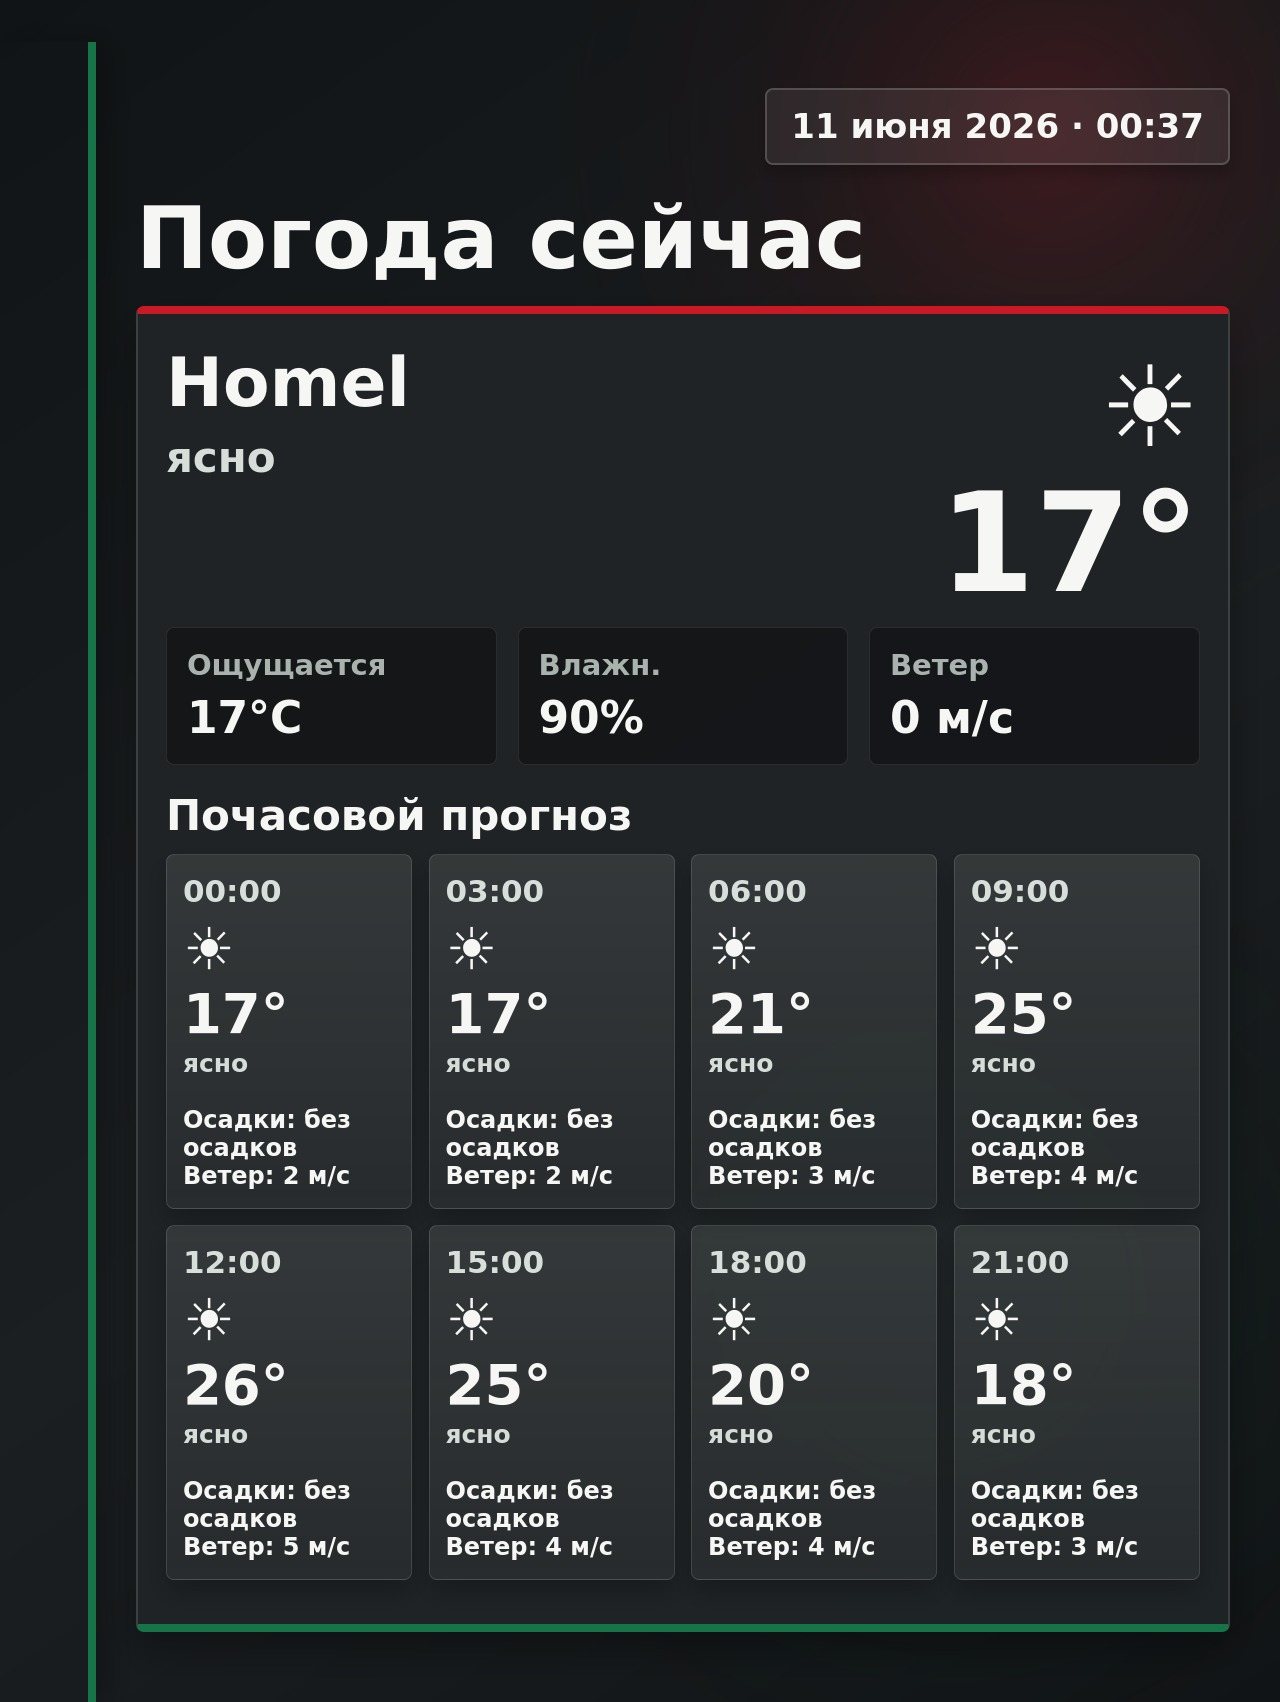
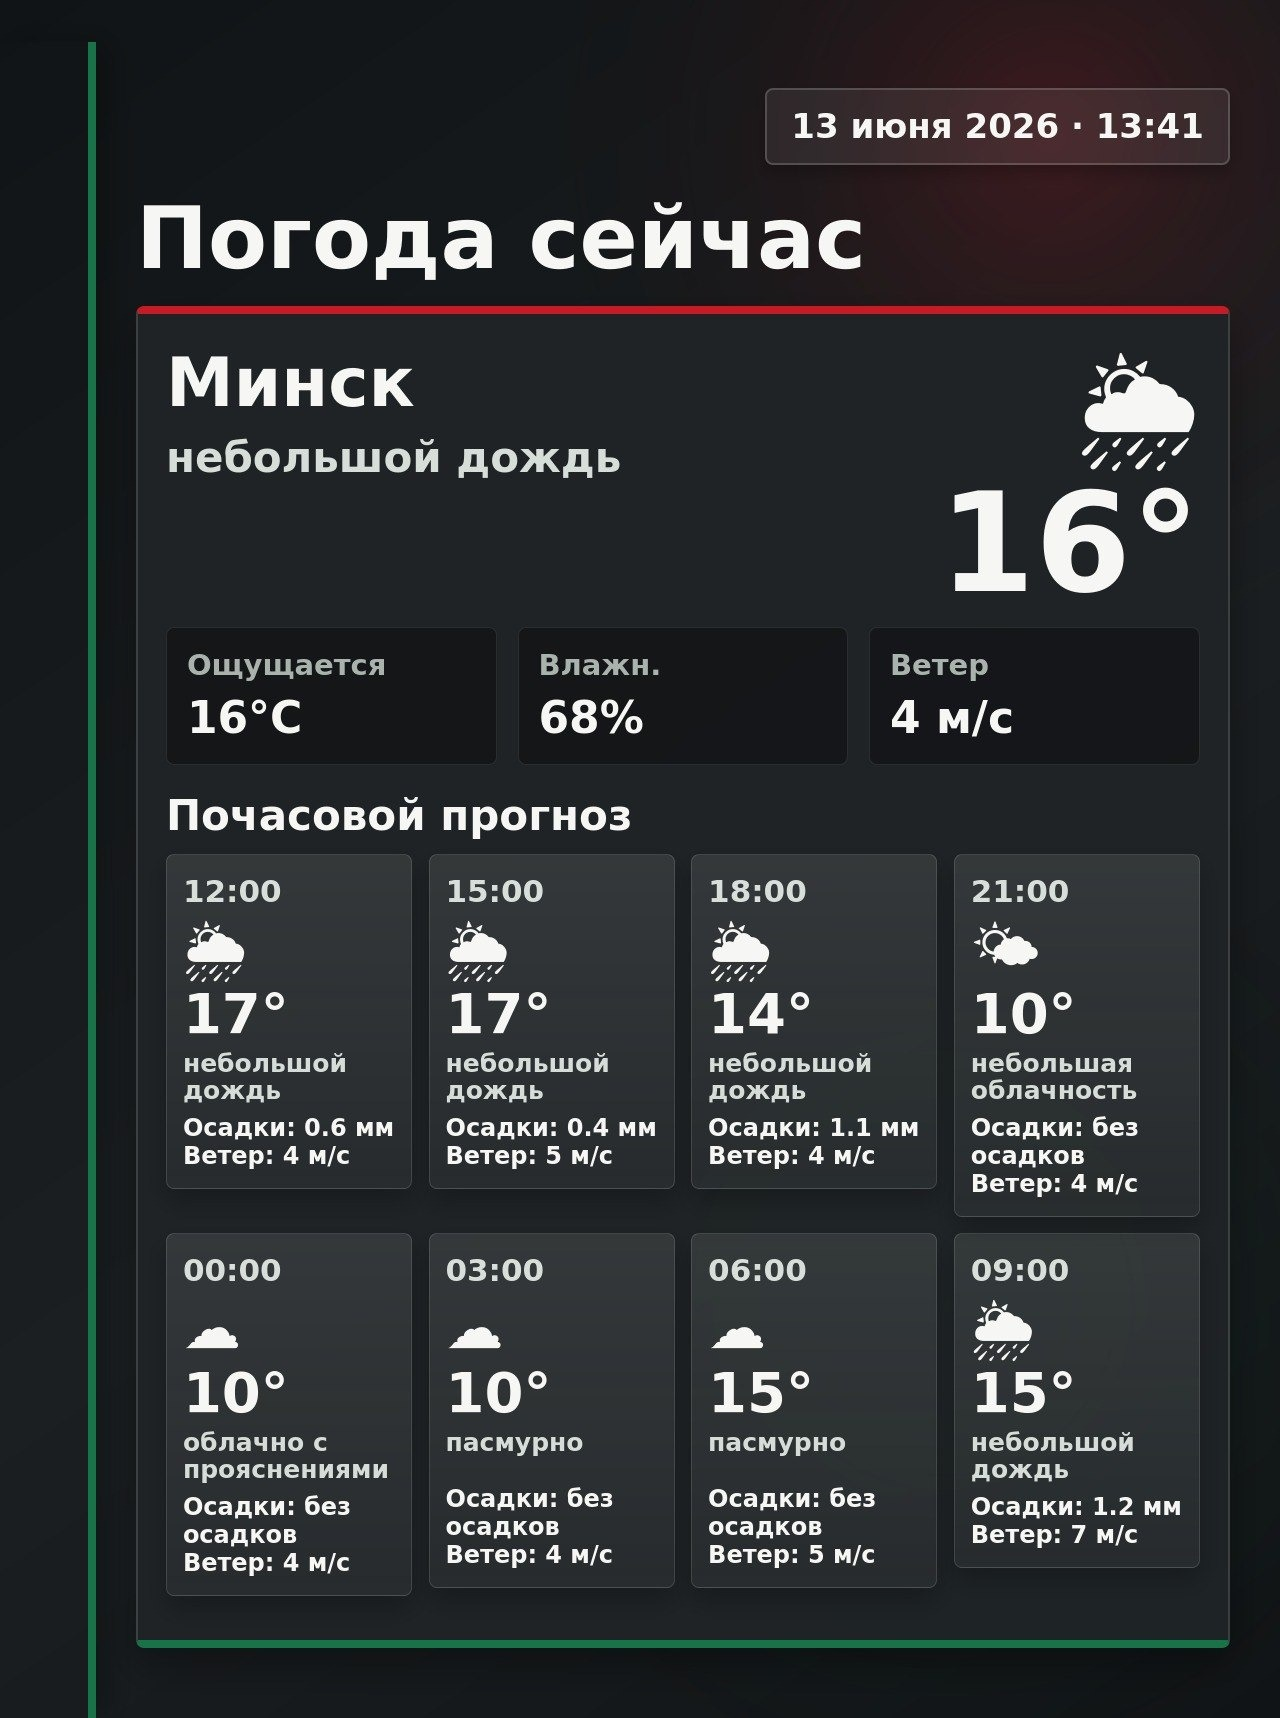
Update README screenshots

diff --git a/README.md b/README.md
@@ -5,11 +5,17 @@ weather for Belarusian locations, and scheduled storm notifications.
 
 ## Telegram UI Preview
 
-This is a real rendered bot screen prepared for README. Runtime chat ids,
-message ids, tokens, and local state are not included.
+Real rendered bot screens prepared for README. Runtime chat ids, message ids,
+tokens, and local state are not included.
 
 <p align="center">
-  <img src="assets/screenshots/weather-current.jpg" alt="Rendered weather screen from the bot" width="760">
+  <img src="assets/screenshots/weather-current.jpg" alt="Rendered current weather screen from the bot" width="360">
+  <img src="assets/screenshots/geomagnetic-current.jpg" alt="Rendered current geomagnetic Kp screen from the bot" width="360">
+</p>
+
+<p align="center">
+  <img src="assets/screenshots/geomagnetic-forecast.jpg" alt="Rendered 3-day geomagnetic forecast screen from the bot" width="360">
+  <img src="assets/screenshots/storm-alert.jpg" alt="Rendered magnetic storm alert screen from the bot" width="360">
 </p>
 
 ## Features
